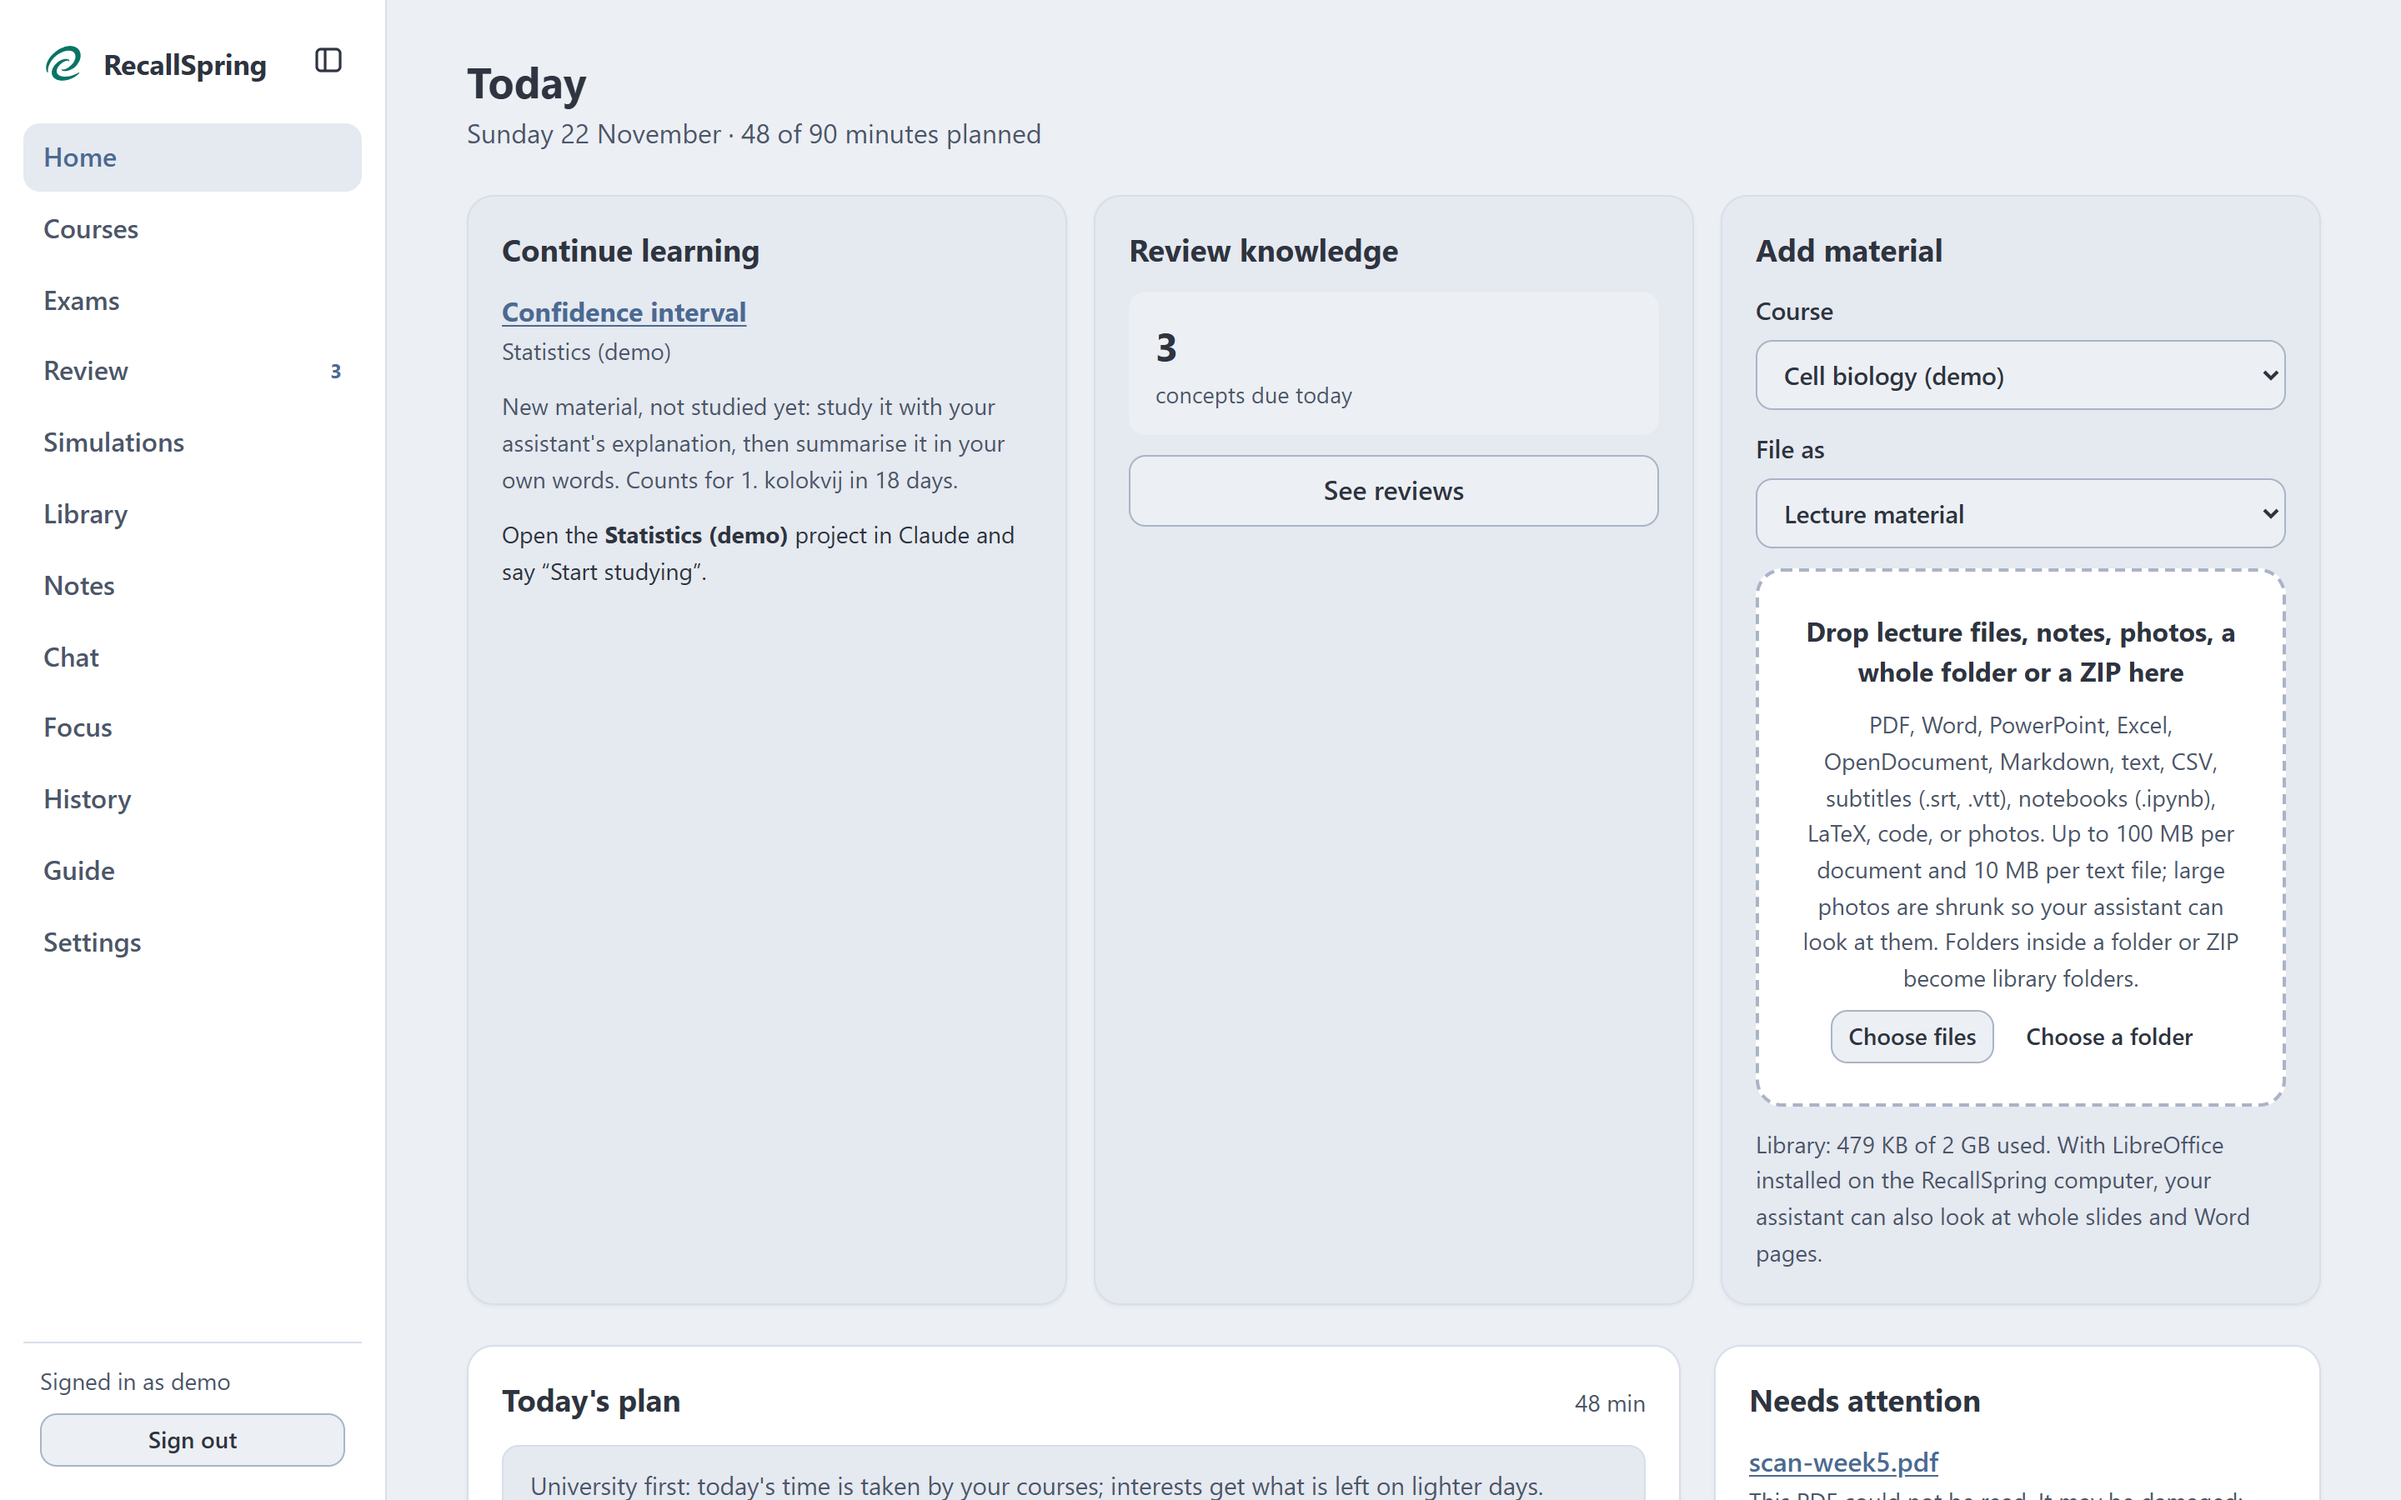
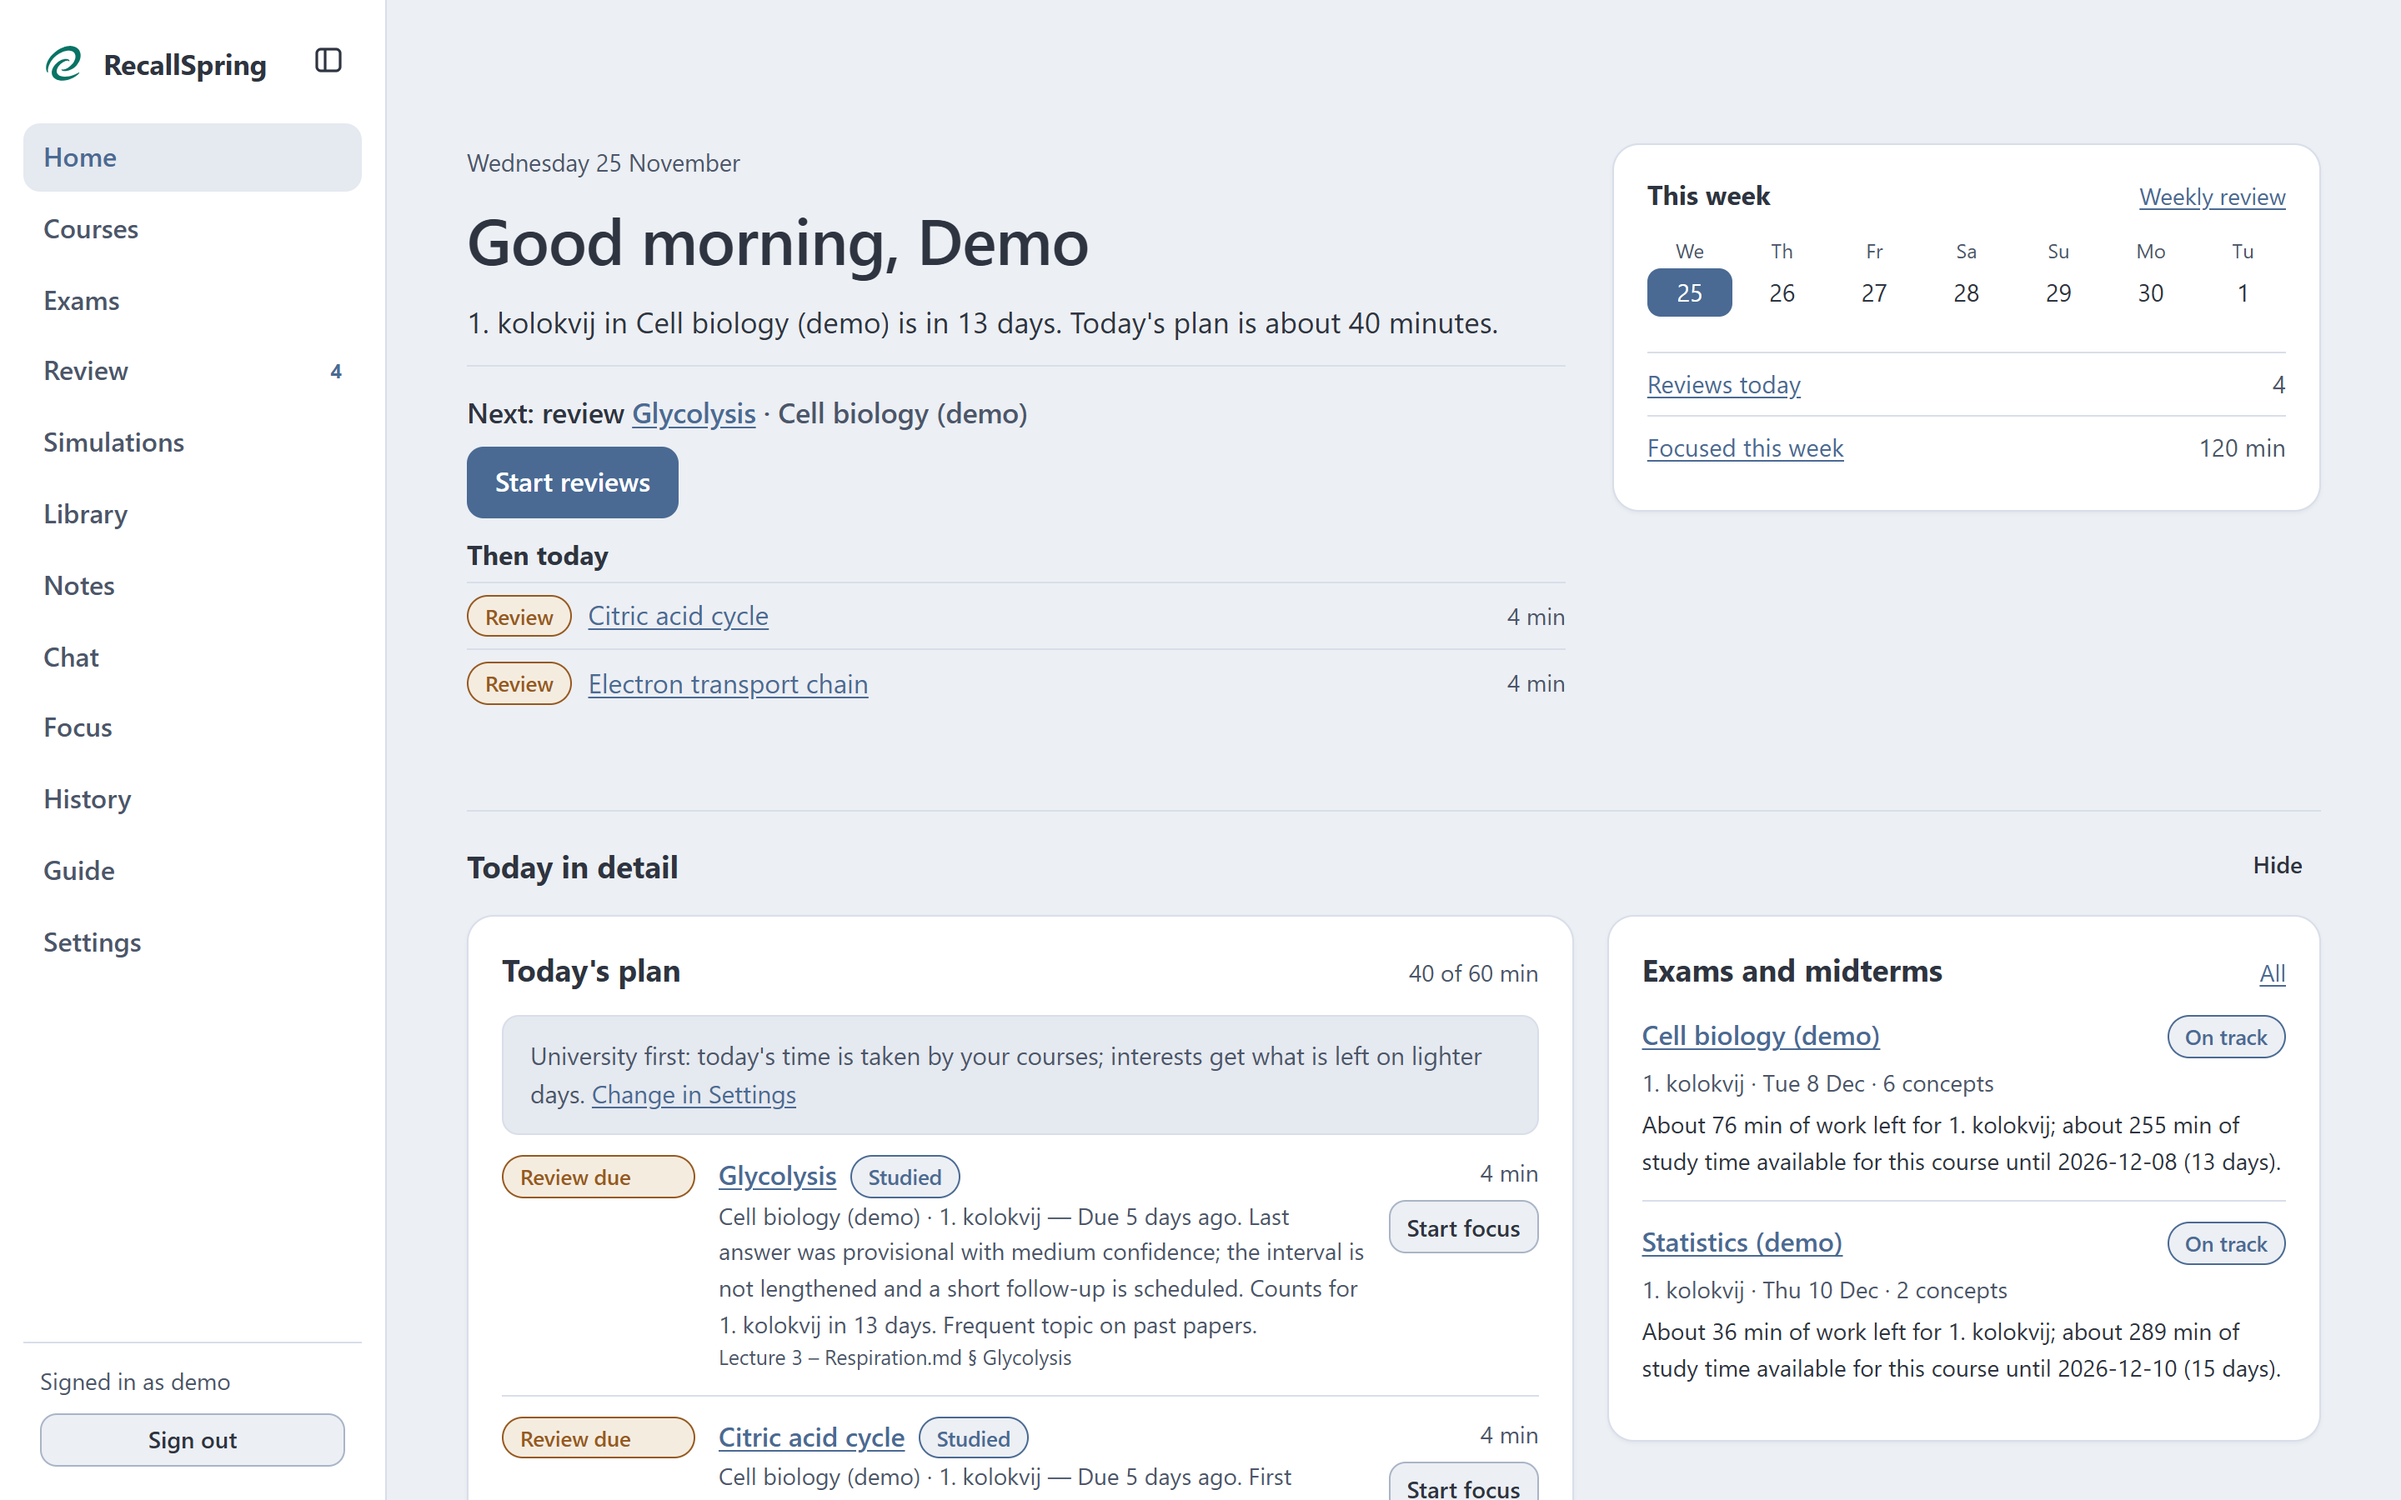
README: the new home page as the header image

diff --git a/README.md b/README.md
@@ -25,7 +25,7 @@
 <br/>
 
 <p align="center">
-  <img src="assets/screenshots/home.png" alt="RecallSpring's Today page: what to learn next, concepts due for review and today's plan" width="100%" />
+  <img src="assets/screenshots/home.png" alt="RecallSpring's home page: the next step with one button, this week at a glance, and today's plan and exams in detail" width="100%" />
 </p>
 
 ## Introduction
